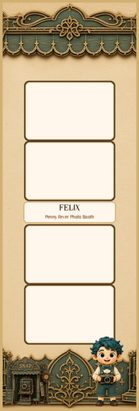
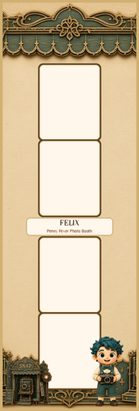
Penny Fever: portrait photo windows on Felix strip
Strip slots were 260×168 landscape and cropped the booth stills. Windows are now 176×220 (4:5), matching the portrait camera freeze.

Changed region(s): [[0.1439, 0.146, 0.8345, 0.9635]]

diff --git a/penny-fever/paper-games/workshop/felix-booth.html b/penny-fever/paper-games/workshop/felix-booth.html
@@ -13,7 +13,7 @@
   <link rel="stylesheet" href="pay_packages_patch.css?v=cam-portrait-1">
   <link rel="stylesheet" href="prepaid_pattern_patch.css?v=cam-portrait-1">
   <link rel="stylesheet" href="event_portal_patch.css?v=cam-portrait-1">
-  <link rel="stylesheet" href="felix-booth.css?v=carnival-3">
+  <link rel="stylesheet" href="felix-booth.css?v=carnival-4">
 </head>
 <body>
   <div id="turn-phone">
@@ -513,7 +513,7 @@
       </div>
     </div>
   </div>
-  <script src="felix-booth.js?v=carnival-3"></script>
-  <script src="felix-booth-text.js?v=carnival-3"></script>
+  <script src="felix-booth.js?v=carnival-4"></script>
+  <script src="felix-booth-text.js?v=carnival-4"></script>
 </body>
 </html>

diff --git a/penny-fever/paper-games/workshop/felix-booth.js b/penny-fever/paper-games/workshop/felix-booth.js
@@ -687,7 +687,7 @@
       applyTemplateSlotCss();
     } catch (_) {}
     try {
-      const payload = await fetch("backgrounds/carnival-sets.json?v=carnival-3").then((r) => r.json());
+      const payload = await fetch("backgrounds/carnival-sets.json?v=carnival-4").then((r) => r.json());
       carnivalSets = Array.isArray(payload.sets) ? payload.sets : [];
       Object.keys(carnivalById).forEach((key) => { delete carnivalById[key]; });
       carnivalSets.forEach((row) => {

diff --git a/penny-fever/paper-games/workshop/felix-booth-text.js b/penny-fever/paper-games/workshop/felix-booth-text.js
@@ -1,5 +1,5 @@
 (function () {
-  const SRC = "felix-booth-text.json?v=carnival-3";
+  const SRC = "felix-booth-text.json?v=carnival-4";
 
   function familyFromFile(file) {
     return String(file || "").replace(/\.[a-z0-9]+$/i, "") || "sans-serif";
